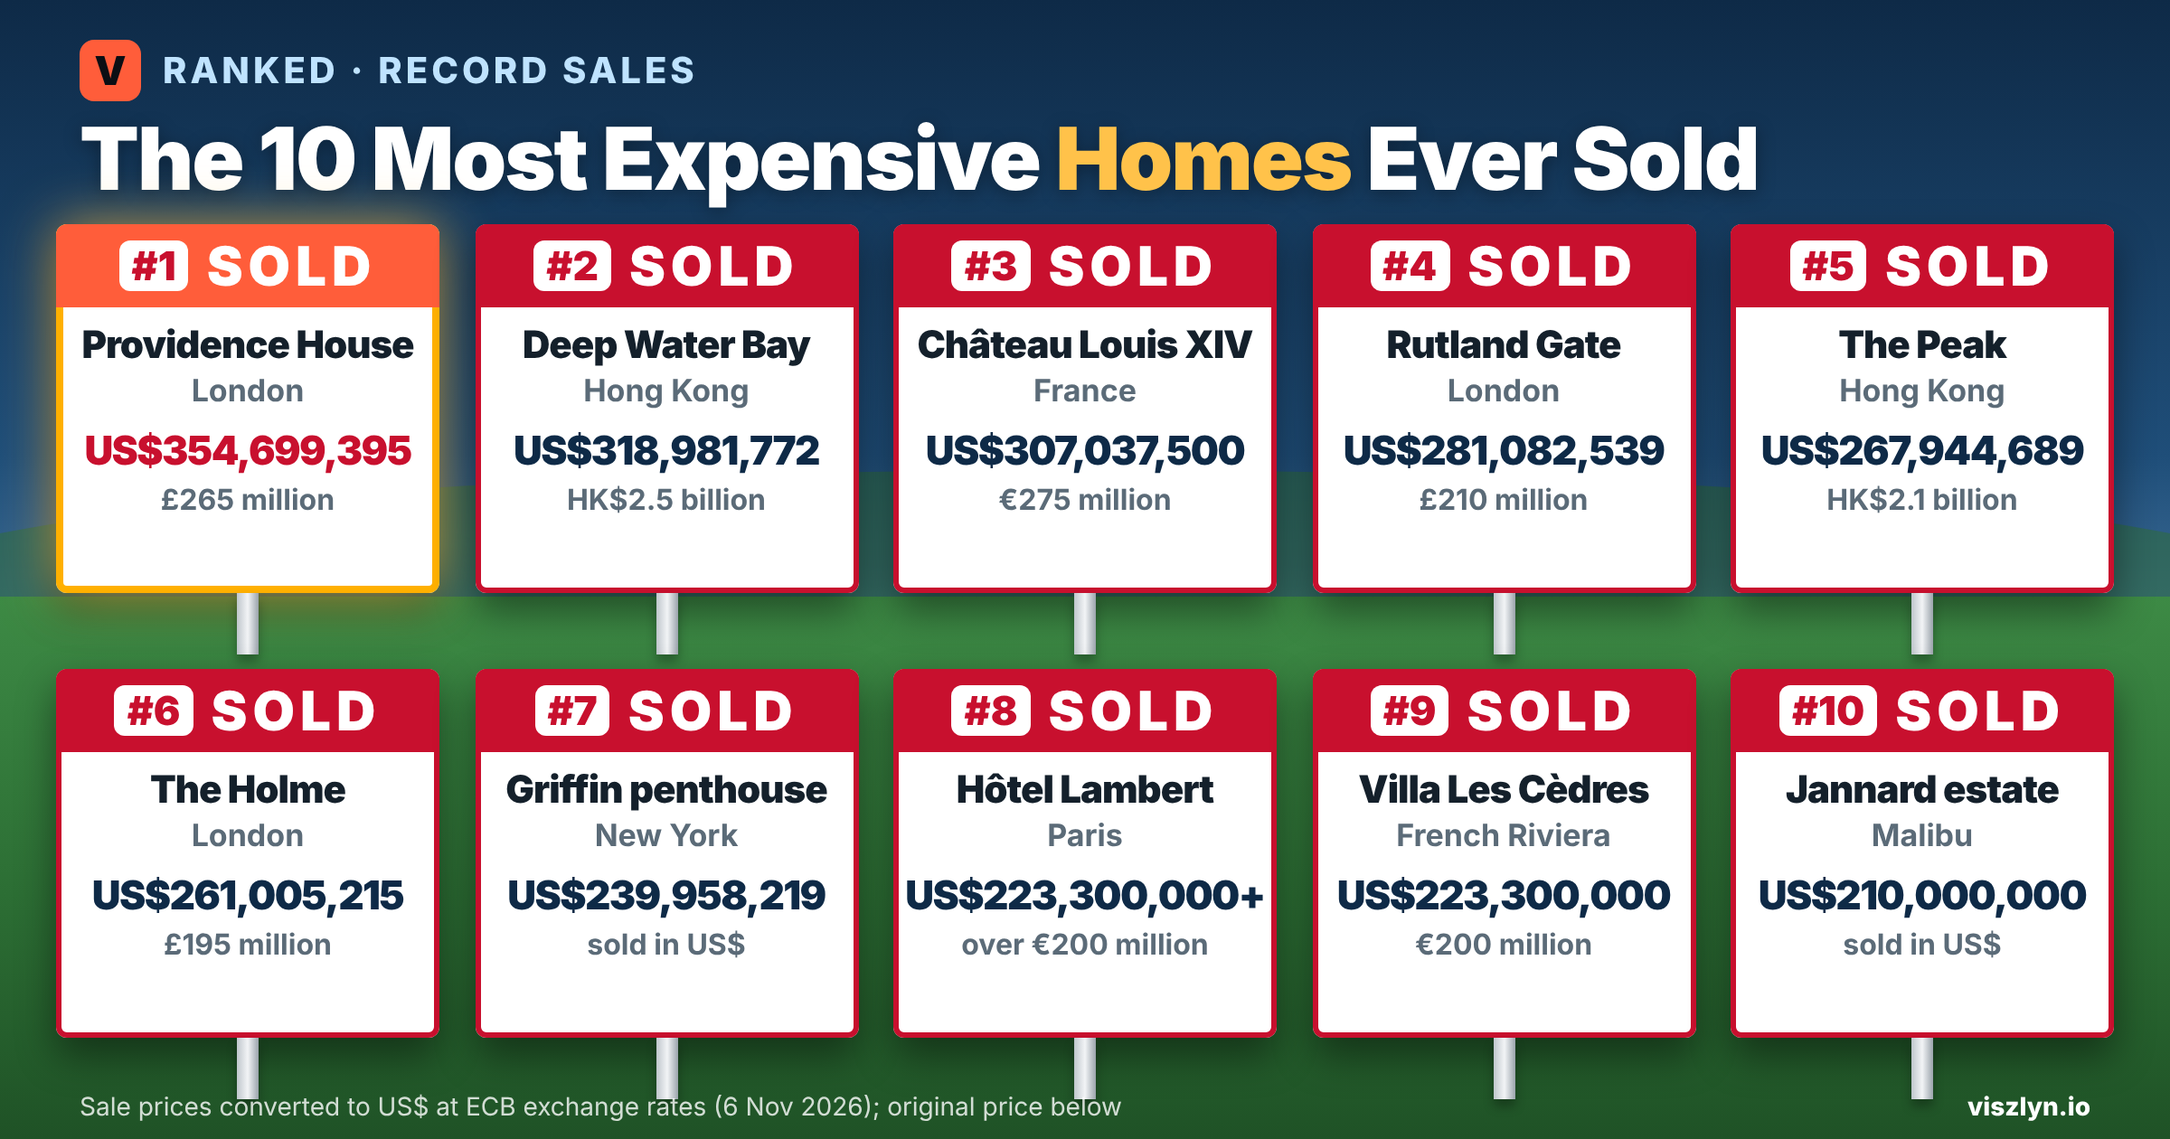
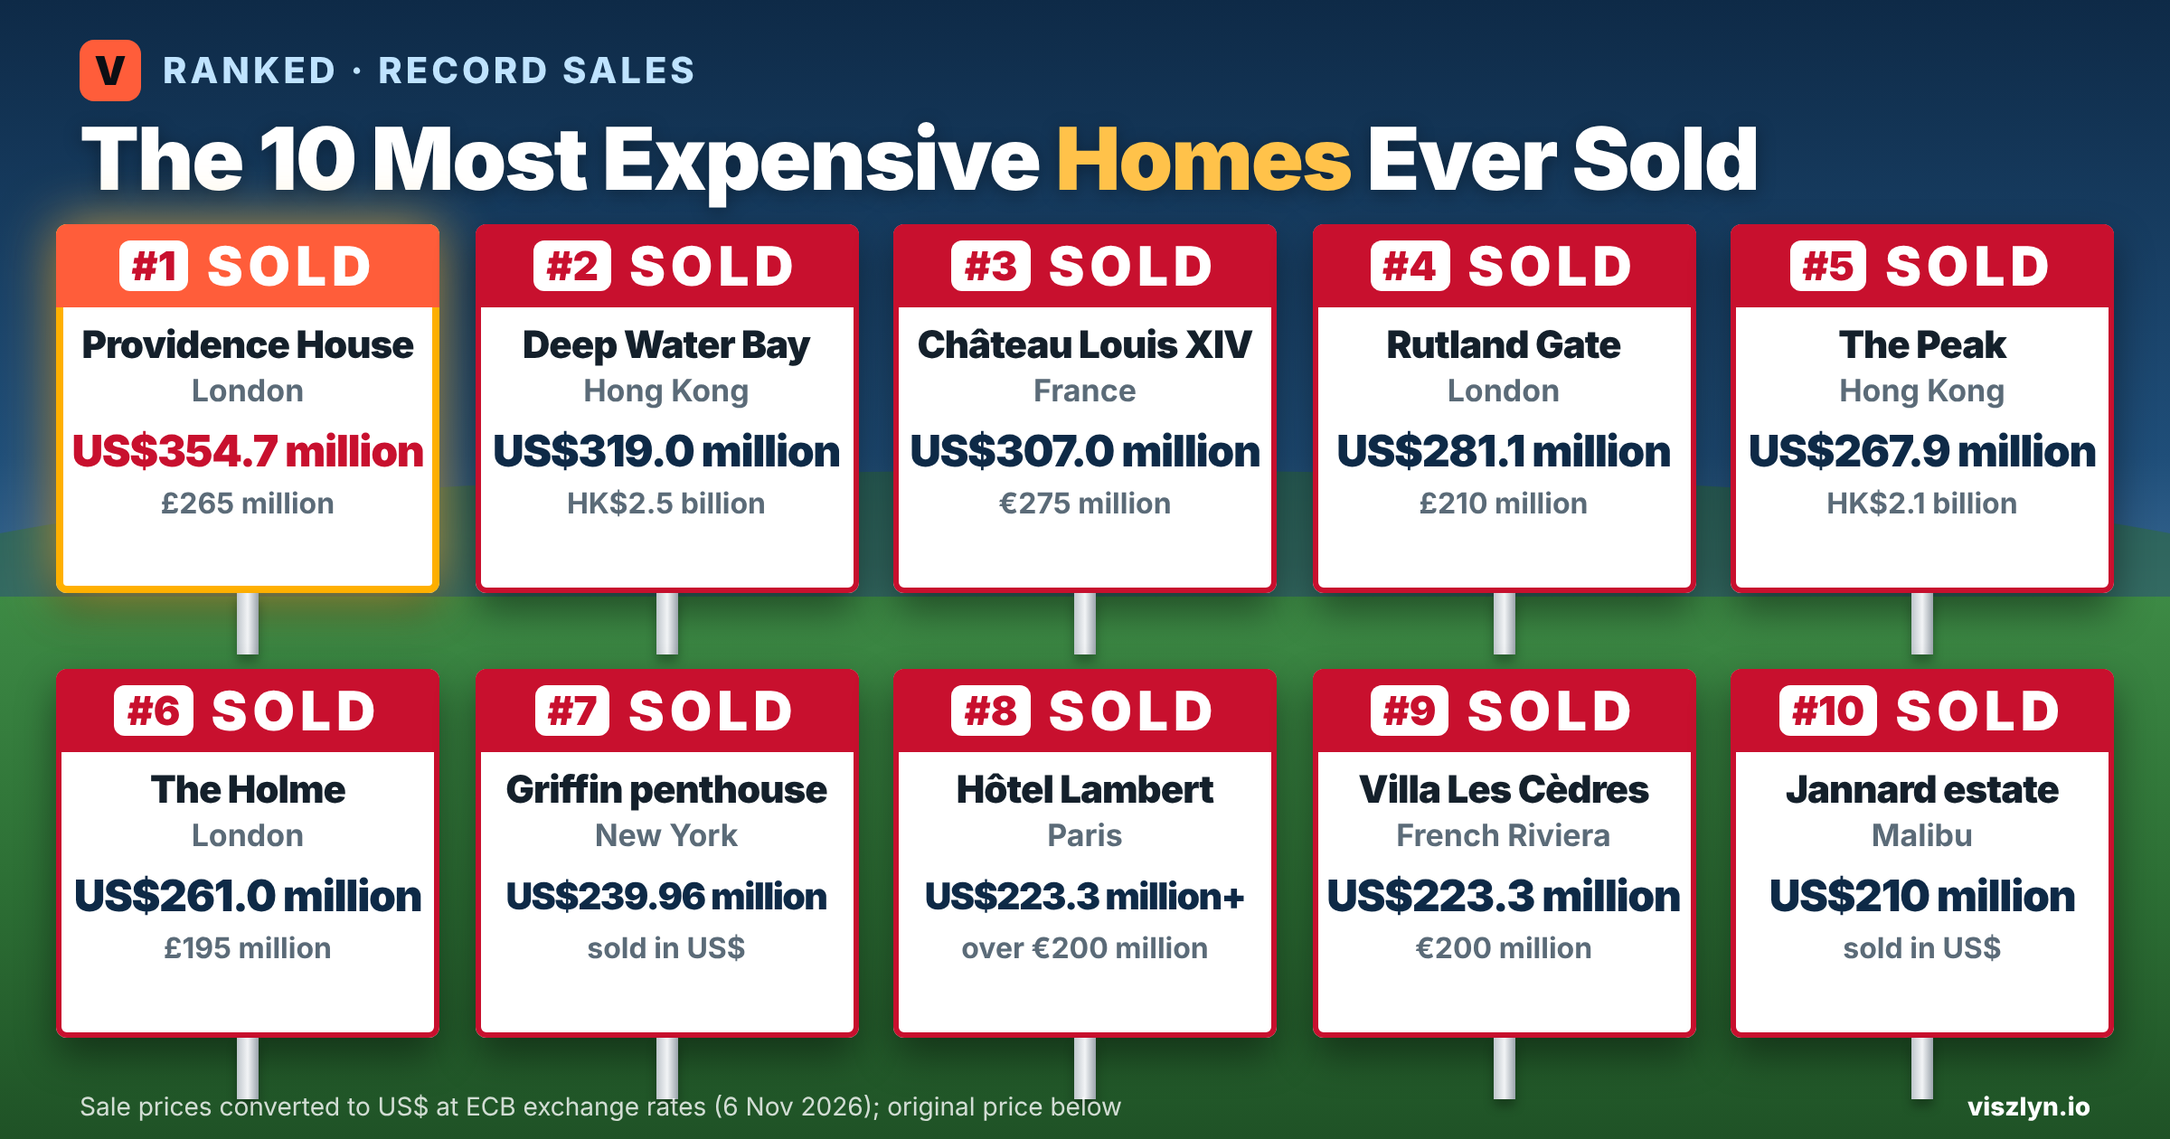
Homes: prices as 'US$354.7 million'; photo captions for area photos (EntryImage.caption)
Claude-Session: https://claude.ai/code/session_01Lx7Mnbsr2j6Zre36XCS9Kp

diff --git a/src/data/rankings/most-expensive-homes-2026.ts b/src/data/rankings/most-expensive-homes-2026.ts
@@ -7,17 +7,17 @@ export const mostExpensiveHomes2026: RankingArticle = {
 
   metaTitle: "The 10 Most Expensive Homes Ever Sold, Ranked | Viszlyn",
   metaDescription:
-    "London's Providence House sold for a reported US$354,699,395 (£265 million) in 2026, the most ever paid for a home. The 10 most expensive homes ever sold, from London and Hong Kong to Paris, New York and Malibu.",
+    "London's Providence House sold for a reported US$354.7 million (£265 million) in 2026, the most ever paid for a home. The 10 most expensive homes ever sold, from London and Hong Kong to Paris, New York and Malibu.",
   ogTitle: "The 10 Most Expensive Homes Ever Sold",
   ogDescription:
-    "A US$354,699,395 London mansion, a US$318,981,772 Hong Kong house and a US$307,037,500 French château: the 10 priciest home sales ever.",
+    "A US$354.7 million London mansion, a US$319.0 million Hong Kong house and a US$307.0 million French château: the 10 priciest home sales ever.",
   twitterTitle: "The 10 Most Expensive Homes Ever Sold",
   twitterDescription:
-    "Providence House, London US$354,699,395; Deep Water Bay, Hong Kong US$318,981,772; Château Louis XIV US$307,037,500. The top 10 home sales ever, ranked.",
+    "Providence House, London US$354.7 million; Deep Water Bay, Hong Kong US$319.0 million; Château Louis XIV US$307.0 million. The top 10 home sales ever, ranked.",
 
   eyebrow: "Money",
   title: "The 10 Most Expensive Homes Ever Sold",
-  dek: "Three of the 10 are in London, three in France, two in Hong Kong and two in the US. The record now belongs to Providence House in Chelsea, which sold for a reported £265 million (US$354,699,395) in 2026.",
+  dek: "Three of the 10 are in London, three in France, two in Hong Kong and two in the US. The record now belongs to Providence House in Chelsea, which sold for a reported £265 million (US$354.7 million) in 2026.",
   publishedDate: "November 16, 2026",
   lastUpdated: "November 16, 2026",
   dataPeriod: "Completed sales up to November 2026; prices converted to US dollars at ECB reference rates on 6 November 2026",
@@ -25,11 +25,11 @@ export const mostExpensiveHomes2026: RankingArticle = {
     src: "/heroes/most-expensive-homes-2026.png",
     onPage: false,
     ogSrc: "/heroes/most-expensive-homes-2026-og.png",
-    alt: "Ten red SOLD signs on a lawn, one for each of the most expensive homes ever sold, with prices in US dollars: Providence House London US$354,699,395, Deep Water Bay Hong Kong US$318,981,772, Château Louis XIV US$307,037,500, Rutland Gate London US$281,082,539, The Peak Hong Kong US$267,944,689, The Holme London US$261,005,215, Ken Griffin's penthouse New York US$239,958,219, Hôtel Lambert Paris over US$223,300,000, Villa Les Cèdres US$223,300,000 and a Malibu estate US$210,000,000.",
+    alt: "Ten red SOLD signs on a lawn, one for each of the most expensive homes ever sold, with prices in US dollars: Providence House London US$354.7 million, Deep Water Bay Hong Kong US$319.0 million, Château Louis XIV US$307.0 million, Rutland Gate London US$281.1 million, The Peak Hong Kong US$267.9 million, The Holme London US$261.0 million, Ken Griffin's penthouse New York US$239.96 million, Hôtel Lambert Paris over US$223.3 million, Villa Les Cèdres US$223.3 million and a Malibu estate US$210 million.",
   },
 
   quickAnswer:
-    "The most expensive home ever sold is Providence House in Chelsea, London, which sold for a reported US$354,699,395 (£265 million, converted at November 2026 exchange rates) in 2026. A house in Deep Water Bay, Hong Kong, is second at US$318,981,772 (HK$2.5 billion), sold in 2017, and Château Louis XIV near Versailles is third at US$307,037,500 (€275 million), sold in 2015. The most expensive home ever sold in the US is Ken Griffin's penthouse at 220 Central Park South, New York, at US$239,958,219.",
+    "The most expensive home ever sold is Providence House in Chelsea, London, which sold for a reported US$354.7 million (£265 million, converted at November 2026 exchange rates) in 2026. A house in Deep Water Bay, Hong Kong, is second at US$319.0 million (HK$2.5 billion), sold in 2017, and Château Louis XIV near Versailles is third at US$307.0 million (€275 million), sold in 2015. The most expensive home ever sold in the US is Ken Griffin's penthouse at 220 Central Park South, New York, at US$239.96 million.",
   introParagraph:
     "Headline prices for trophy homes are often inflated, or turn out to be asking prices, refinancings or several properties sold together. This ranking only counts completed sales of a single home, with each price taken from official property records or company filings where they exist, and otherwise from major financial news outlets. Each entry says which. The sales happened in different years and currencies, so to compare them on one scale we converted every price to US dollars at the same European Central Bank reference rates, on 6 November 2026. Prices are shown in US dollars, with the original price in brackets.",
   calloutBox: {
@@ -42,23 +42,23 @@ export const mostExpensiveHomes2026: RankingArticle = {
   chartTapNote: "Tap any home to jump to its details below.",
   entryValueLabel: "Sale price:",
   chartItems: [
-    { rank: 1, name: "Providence House, London", value: "US$354,699,395", raw: 354699395 },
-    { rank: 2, name: "Deep Water Bay house, Hong Kong", value: "US$318,981,772", raw: 318981772 },
-    { rank: 3, name: "Château Louis XIV, France", value: "US$307,037,500", raw: 307037500 },
-    { rank: 4, name: "Rutland Gate mansion, London", value: "US$281,082,539", raw: 281082539 },
-    { rank: 5, name: "The Peak house, Hong Kong", value: "US$267,944,689", raw: 267944689 },
-    { rank: 6, name: "The Holme, London", value: "US$261,005,215", raw: 261005215 },
-    { rank: 7, name: "220 Central Park South penthouse, New York", value: "US$239,958,219", raw: 239958219 },
-    { rank: 8, name: "Hôtel Lambert, Paris", value: "over US$223,300,000", raw: 223300001 },
-    { rank: 9, name: "Villa Les Cèdres, France", value: "US$223,300,000", raw: 223300000 },
-    { rank: 10, name: "Malibu estate, California", value: "US$210,000,000", raw: 210000000 },
+    { rank: 1, name: "Providence House, London", value: "US$354.7 million", raw: 354699395 },
+    { rank: 2, name: "Deep Water Bay house, Hong Kong", value: "US$319.0 million", raw: 318981772 },
+    { rank: 3, name: "Château Louis XIV, France", value: "US$307.0 million", raw: 307037500 },
+    { rank: 4, name: "Rutland Gate mansion, London", value: "US$281.1 million", raw: 281082539 },
+    { rank: 5, name: "The Peak house, Hong Kong", value: "US$267.9 million", raw: 267944689 },
+    { rank: 6, name: "The Holme, London", value: "US$261.0 million", raw: 261005215 },
+    { rank: 7, name: "220 Central Park South penthouse, New York", value: "US$239.96 million", raw: 239958219 },
+    { rank: 8, name: "Hôtel Lambert, Paris", value: "over US$223.3 million", raw: 223300001 },
+    { rank: 9, name: "Villa Les Cèdres, France", value: "US$223.3 million", raw: 223300000 },
+    { rank: 10, name: "Malibu estate, California", value: "US$210 million", raw: 210000000 },
   ],
 
   detailedEntries: [
     {
       rank: 10,
       name: "Malibu estate, California",
-      earnings: "US$210,000,000 (2024)",
+      earnings: "US$210 million (2024)",
       category: "Malibu, United States",
       blurb: "Oakley founder James Jannard sold his beachfront Malibu estate for US$210 million in June 2024, according to the Los Angeles Times, citing property records. The buyer, a Delaware company, was not disclosed.",
       standoutFact: "It is the most expensive home ever sold in California.",
@@ -67,7 +67,7 @@ export const mostExpensiveHomes2026: RankingArticle = {
     {
       rank: 9,
       name: "Villa Les Cèdres, France",
-      earnings: "US$223,300,000 (€200,000,000, 2019)",
+      earnings: "US$223.3 million (€200 million, 2019)",
       category: "Saint-Jean-Cap-Ferrat, France",
       blurb: "Campari Group sold Villa Les Cèdres on the French Riviera for €200 million in October 2019. The buyer was Ukrainian billionaire Rinat Akhmetov, confirmed by his own company.",
       standoutFact: "The price is stated in the seller's own audited annual report, one of the strongest sources in this ranking.",
@@ -76,7 +76,7 @@ export const mostExpensiveHomes2026: RankingArticle = {
     {
       rank: 8,
       name: "Hôtel Lambert, Paris",
-      earnings: "More than US$223,300,000 (more than €200,000,000, 2022)",
+      earnings: "More than US$223.3 million (more than €200 million, 2022)",
       category: "Paris, France",
       blurb: "Hôtel Lambert, a mansion on the Île Saint-Louis in the heart of Paris, sold in February 2022 for more than €200 million, according to Bloomberg. The buyer has not confirmed the purchase.",
       standoutFact: "The exact price was never published, so this is a minimum; it ranks above Villa Les Cèdres because its price was reported as more than €200 million.",
@@ -85,7 +85,7 @@ export const mostExpensiveHomes2026: RankingArticle = {
     {
       rank: 7,
       name: "220 Central Park South penthouse, New York",
-      earnings: "US$239,958,219 (2019)",
+      earnings: "US$239.96 million (2019)",
       category: "New York, United States",
       blurb: "Citadel founder Ken Griffin bought a penthouse at 220 Central Park South, on Manhattan's Billionaires' Row, for US$239,958,219, recorded in New York City property records on 23 January 2019.",
       standoutFact: "It is still the most expensive home ever sold in the United States.",
@@ -94,7 +94,7 @@ export const mostExpensiveHomes2026: RankingArticle = {
     {
       rank: 6,
       name: "The Holme, London",
-      earnings: "US$261,005,215 (£195,000,000, 2026)",
+      earnings: "US$261.0 million (£195 million, 2026)",
       category: "London, United Kingdom",
       blurb: "The Holme, a mansion in Regent's Park, sold for a reported £195 million in June 2026. The buyer has not been disclosed.",
       standoutFact: "It sold just 18 months after a £139 million sale by receivers in 2024, so the price rose by £56 million.",
@@ -103,7 +103,7 @@ export const mostExpensiveHomes2026: RankingArticle = {
     {
       rank: 5,
       name: "The Peak house, Hong Kong",
-      earnings: "US$267,944,689 (HK$2,100,000,000, 2019)",
+      earnings: "US$267.9 million (HK$2.1 billion, 2019)",
       category: "Hong Kong",
       blurb: "A house on The Peak sold for HK$2.1 billion to Chen Hongtian. The deal was agreed in June 2016 and completed in February 2019, and the price is recorded in the seller's filing to the Hong Kong stock exchange.",
       standoutFact: "About a fifth of the price was paid with a property in Shenzhen rather than cash. In August 2025 the house was resold for HK$790 million after being seized by creditors.",
@@ -112,7 +112,7 @@ export const mostExpensiveHomes2026: RankingArticle = {
     {
       rank: 4,
       name: "Rutland Gate mansion, London",
-      earnings: "US$281,082,539 (£210,000,000, 2020)",
+      earnings: "US$281.1 million (£210 million, 2020)",
       category: "London, United Kingdom",
       blurb: "A mansion at Rutland Gate in Knightsbridge sold for £210 million on 21 April 2020 to Cheung Chung-kiu, whose family office confirmed the purchase.",
       standoutFact: "Its price is confirmed in the UK's official Land Registry price-paid data.",
@@ -122,7 +122,7 @@ export const mostExpensiveHomes2026: RankingArticle = {
     {
       rank: 3,
       name: "Château Louis XIV, France",
-      earnings: "US$307,037,500 (€275,000,000, 2015)",
+      earnings: "US$307.0 million (€275 million, 2015)",
       category: "Louveciennes, France",
       blurb: "Château Louis XIV in Louveciennes, near Versailles, sold for a reported €275 million in 2015, according to Bloomberg. The buyer was not officially disclosed.",
       standoutFact: "Bloomberg and Money called it the world's most expensive home when the sale was reported in December 2015.",
@@ -132,7 +132,7 @@ export const mostExpensiveHomes2026: RankingArticle = {
     {
       rank: 2,
       name: "Deep Water Bay house, Hong Kong",
-      earnings: "US$318,981,772 (HK$2,500,000,000, 2017)",
+      earnings: "US$319.0 million (HK$2.5 billion, 2017)",
       category: "Hong Kong",
       blurb: "A 13,854-square-foot house in Deep Water Bay sold for a reported HK$2.5 billion in 2017. Hong Kong Land Registry documents show businessman Pan Sutong as the owner.",
       standoutFact: "Hong Kong is the only place outside London and France with two homes in the top 10; the other is the HK$2.1 billion Peak house.",
@@ -141,7 +141,7 @@ export const mostExpensiveHomes2026: RankingArticle = {
     {
       rank: 1,
       name: "Providence House, London",
-      earnings: "US$354,699,395 (£265,000,000, 2026)",
+      earnings: "US$354.7 million (£265 million, 2026)",
       category: "London, United Kingdom",
       blurb: "Providence House, property developer Nick Candy's former mansion in the grounds of the Royal Hospital Chelsea, sold for a reported £265 million, with the deal completed in May 2026. The buyer has not been disclosed.",
       standoutFact: "Reports gave prices from £265 million to more than £275 million; an investigation by Tax Policy Associates found the higher figure traced to a citation error. As of September 2026 the sale was not yet registered at the Land Registry, and the deal also included five small flats worth about £1.75 million.",
@@ -152,7 +152,7 @@ export const mostExpensiveHomes2026: RankingArticle = {
   keyTakeaway: {
     stat: "3 of 10",
     label: "Homes in the top 10 that are in London",
-    comparisonStat: "US$354,699,395",
+    comparisonStat: "US$354.7 million",
     comparisonLabel: "Providence House, the most expensive home ever sold",
     note: "London has three of the 10 most expensive home sales ever, including the top spot, and two of them happened in 2026. France also has three, Hong Kong two, and the US two: Ken Griffin's New York penthouse and the Malibu estate.",
   },
@@ -163,7 +163,7 @@ export const mostExpensiveHomes2026: RankingArticle = {
     sources:
       "HM Land Registry price-paid data (Rutland Gate); New York City property records via ACRIS (220 Central Park South); Hong Kong stock exchange filing (The Peak house); Campari Group annual report (Villa Les Cèdres); Hong Kong Land Registry documents as reported by Mingtiandi (Deep Water Bay); Tax Policy Associates, The Times and Bloomberg (Providence House); Bloomberg and Beauchamp Estates (The Holme); Bloomberg (Château Louis XIV, Hôtel Lambert); Los Angeles Times citing property records (Malibu). Exchange rates: European Central Bank euro reference rates, 6 November 2026. Photos: Wikimedia Commons, credited under each photo.",
     methodology:
-      "Included: completed sales of a single home (house, apartment, penthouse or estate) anywhere in the world, up to November 2026. Excluded: asking prices, refinancings, off-plan contracts that have not completed, deals covering several separate properties, palaces and state property, and homes that have never been sold. Each price is shown exactly as recorded or reported, in its original currency. Where official records or company filings exist we used them; otherwise prices come from major financial news outlets and are marked as reported. US dollar figures are Viszlyn conversions at ECB euro reference rates on 6 November 2026 (EUR/USD 1.1165, EUR/GBP 0.83415, EUR/HKD 8.7505), used only to rank the homes on one scale; they are not the dollar prices at the time of sale. Buyers are named only where they confirmed the purchase or appear in official records.",
+      "Included: completed sales of a single home (house, apartment, penthouse or estate) anywhere in the world, up to November 2026. Excluded: asking prices, refinancings, off-plan contracts that have not completed, deals covering several separate properties, palaces and state property, and homes that have never been sold. Each price is shown exactly as recorded or reported, in its original currency. Where official records or company filings exist we used them; otherwise prices come from major financial news outlets and are marked as reported. US dollar figures are Viszlyn conversions at ECB euro reference rates on 6 November 2026 (EUR/USD 1.1165, EUR/GBP 0.83415, EUR/HKD 8.7505), used only to rank the homes on one scale; they are not the dollar prices at the time of sale. Converted figures are rounded to the nearest US$0.1 million; prices paid in US dollars are shown as recorded. Buyers are named only where they confirmed the purchase or appear in official records.",
     sourceLinks: [
       { label: "Tax Policy Associates: Providence House sale (Sept 2026)", href: "https://taxpolicy.org.uk/2026/09/22/nick-candy-18-5m-stamp-duty-house-sale/" },
       { label: "Mingtiandi: Deep Water Bay house (Pan Sutong)", href: "https://www.mingtiandi.com/real-estate/finance/goldin-boss-pan-sutong-remortgages-hong-kong-home/" },
@@ -183,7 +183,7 @@ export const mostExpensiveHomes2026: RankingArticle = {
     {
       question: "What is the most expensive home ever sold?",
       answer:
-        "Providence House in Chelsea, London, which sold for a reported US$354,699,395 (£265 million, converted at ECB rates on 6 November 2026) in 2026. Before that, the record was a house in Deep Water Bay, Hong Kong, sold for a reported US$318,981,772 (HK$2.5 billion) in 2017.",
+        "Providence House in Chelsea, London, which sold for a reported US$354.7 million (£265 million, converted at ECB rates on 6 November 2026) in 2026. Before that, the record was a house in Deep Water Bay, Hong Kong, sold for a reported US$319.0 million (HK$2.5 billion) in 2017.",
     },
     {
       question: "What is the most expensive home ever sold in the US?",

diff --git a/src/components/RankEntry.tsx b/src/components/RankEntry.tsx
@@ -172,6 +172,7 @@ export function EntryPhoto({ image }: { image: EntryImage }) {
         className="w-full h-auto rounded-md bg-stone-light/40"
       />
       <figcaption className="font-body text-[11px] leading-snug text-stone mt-1">
+        {image.caption && <span className="text-ink/80">{image.caption} </span>}
         Photo:{" "}
         <a href={image.sourceUrl} target="_blank" rel="noopener noreferrer" className="underline decoration-stone-light underline-offset-2 hover:text-signal">
           {image.author}

diff --git a/src/data/rankings/types.ts b/src/data/rankings/types.ts
@@ -48,6 +48,8 @@ export type EntryImage = {
   licenseUrl?: string;
   /** The file's page on Wikimedia Commons (or other source) */
   sourceUrl: string;
+  /** Optional line shown before the credit, e.g. "Deep Water Bay, Hong Kong: the area, not the house." */
+  caption?: string;
 };
 
 export type FaqItem = {
